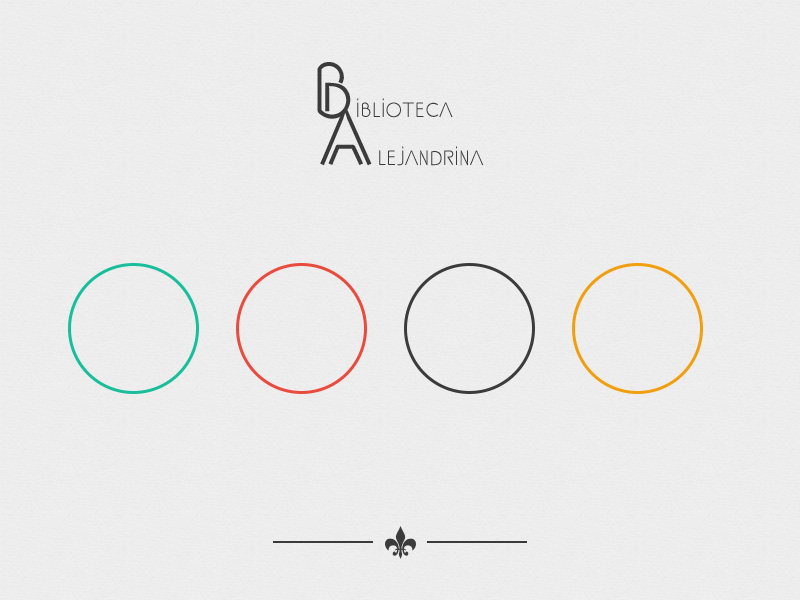
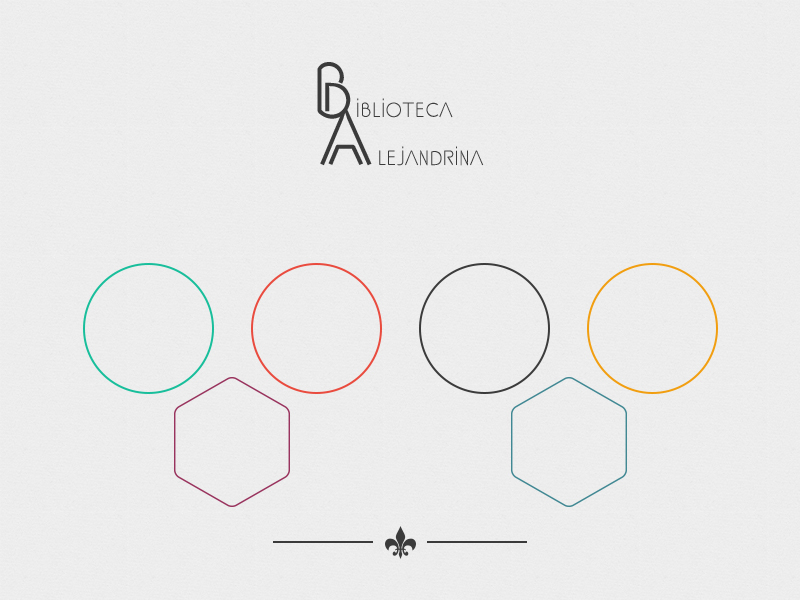
Creación de plantillas Abstractas A la hora de realizar una consulta se crea un Panel Abstracto, del cual se toma la plantilla con la función getPanelAbstracto y así mostrarlo en pantalla, creando diferente objetos o artículos

diff --git a/Biblioteca_Alejandrina/src/Notificaciones/claseNotificaciones.java b/Biblioteca_Alejandrina/src/Notificaciones/claseNotificaciones.java
@@ -13,11 +13,12 @@ import javax.swing.*;
 import javax.swing.border.Border;
 
 
+
 import java.awt.*;
 import java.awt.event.*;
 import java.util.Hashtable;
 
-
+import plantillas.paneles.*;
 
 
 // TODO: Auto-generated Javadoc
@@ -270,8 +271,21 @@ public class claseNotificaciones extends JFrame implements ActionListener{
 		lblCanFechaPrestamo.setForeground(Color.WHITE);
 		panel.add(lblCanFechaPrestamo,gbc2);
 		
+		
+		
+		
 		v.add(panel);
 		
+		ArticuloAbstracto abs = new ArticuloAbstracto();
+		
+		JPanel panelprueba = new JPanel();
+		panelprueba = (JPanel) abs.getContenedorArticulo("Libro", "Dios no tiene Favoritos Tiene Intimos", "Marcos Brunet", "ZOE", "Descripcion del Articulo Seleccionado", "3", getClass().getResource("/recursos/Libro5.jpg").getPath());
+		
+		v.add(panelprueba);
+		
+		JPanel panelprueba2 = new JPanel();
+		panelprueba2 = (JPanel) abs.getContenedorArticulo("Libro", "Con todas mis fuerzas te alabare", "Marcos Brunet", "ZOE", "Descripcion del Articulo Seleccionado", "5", getClass().getResource("/recursos/Ejemplo3.jpg").getPath());
+		v.add(panelprueba2);
 		
 		v.setVisible(true);
 		Color colorV = new Color(239,239,239);

diff --git a/Biblioteca_Alejandrina/src/registro/clientes/ClaseRegistroClientes.java b/Biblioteca_Alejandrina/src/registro/clientes/ClaseRegistroClientes.java
@@ -282,7 +282,7 @@ public class ClaseRegistroClientes extends JFrame implements ActionListener{
 	}
 
 	
-	
+	//TODO ActionListener()
 	/* (non-Javadoc)
 	 * @see java.awt.event.ActionListener#actionPerformed(java.awt.event.ActionEvent)
 	 */
@@ -336,7 +336,6 @@ public class ClaseRegistroClientes extends JFrame implements ActionListener{
 	
 	public void guardarDatos(){
 		cliente_reg = new Cliente(txtNombre.getText(), txtPApellido.getText(), txtSApellido.getText(), txtTelefono.getText(), txtCorreo.getText(), (String) cbCategoria.getSelectedItem());
-		Registro.recuperarEstadoSistema();
 		Registro.clientesRegistrados.add(cliente_reg);
 		Registro.guardarEstadoActualSistema();
 	}
@@ -371,7 +370,7 @@ public class ClaseRegistroClientes extends JFrame implements ActionListener{
 	
 	public boolean verificarDatos(){
 		if ( txtNombre.getText().matches("\\s*") ){ //Verifica si tiene espacios en blanco
-			JOptionPane.showMessageDialog(null, "El dato nombre no ha sido ingresado");
+			JOptionPane.showMessageDialog(null, "El dato Nombre no ha sido ingresado");
 			return false;
 		}
 		if ( txtPApellido.getText().matches("\\s*") ){

diff --git a/Biblioteca_Alejandrina/src/registro/articulo/claseRegistroArticulos.java b/Biblioteca_Alejandrina/src/registro/articulo/claseRegistroArticulos.java
@@ -106,7 +106,7 @@ public class claseRegistroArticulos extends JFrame implements ActionListener {
 
 	JRadioButton[] radioButton = new JRadioButton[6];
 
-	/** The panelFrame. */
+	/** The panelContenedor. */
 	JPanel panelFrame;
 
 	/** The gbc_2. */
@@ -317,6 +317,7 @@ public class claseRegistroArticulos extends JFrame implements ActionListener {
 
 	}
 
+// TODO ActionListener()
 	public void actionPerformed(ActionEvent e) {
 		if (e.getSource() == cbTipo) {
 			String tipo = (String) cbTipo.getSelectedItem();
@@ -424,7 +425,6 @@ public class claseRegistroArticulos extends JFrame implements ActionListener {
 	public void guardarDatos(){
 		
 		articulo_reg = new Articulo( cbTipo.getSelectedItem().toString() , txtDatos[0].getText(), txtDatos[1].getText(), txtDatos[2].getText(), txtDatos[3].getText(), dirImagen, strCalificacion);
-		Registro.recuperarEstadoSistema();
 		Registro.articulosRegistrados.add(articulo_reg);
 		System.out.println(articulo_reg.toString());
 		Registro.guardarEstadoActualSistema();

diff --git a/Biblioteca_Alejandrina/src/Notificaciones/copy2/claseNotificaciones.java b/Biblioteca_Alejandrina/src/Notificaciones/copy2/claseNotificaciones.java
@@ -119,7 +119,7 @@ public class claseNotificaciones extends JFrame implements ActionListener, Mouse
 		/** The lbl nom autor. */
 		JLabel lblCategoria, lblTitulo, lblAutor;
 		
-		Color bgColorRed = new Color(222, 87, 101),
+		Color bgColorRed = new Color(222,87,101),
 			  bgColorYellow = new Color(219, 165, 49);
 		Color lblColor=null,lblColorAutor=null;
 		
